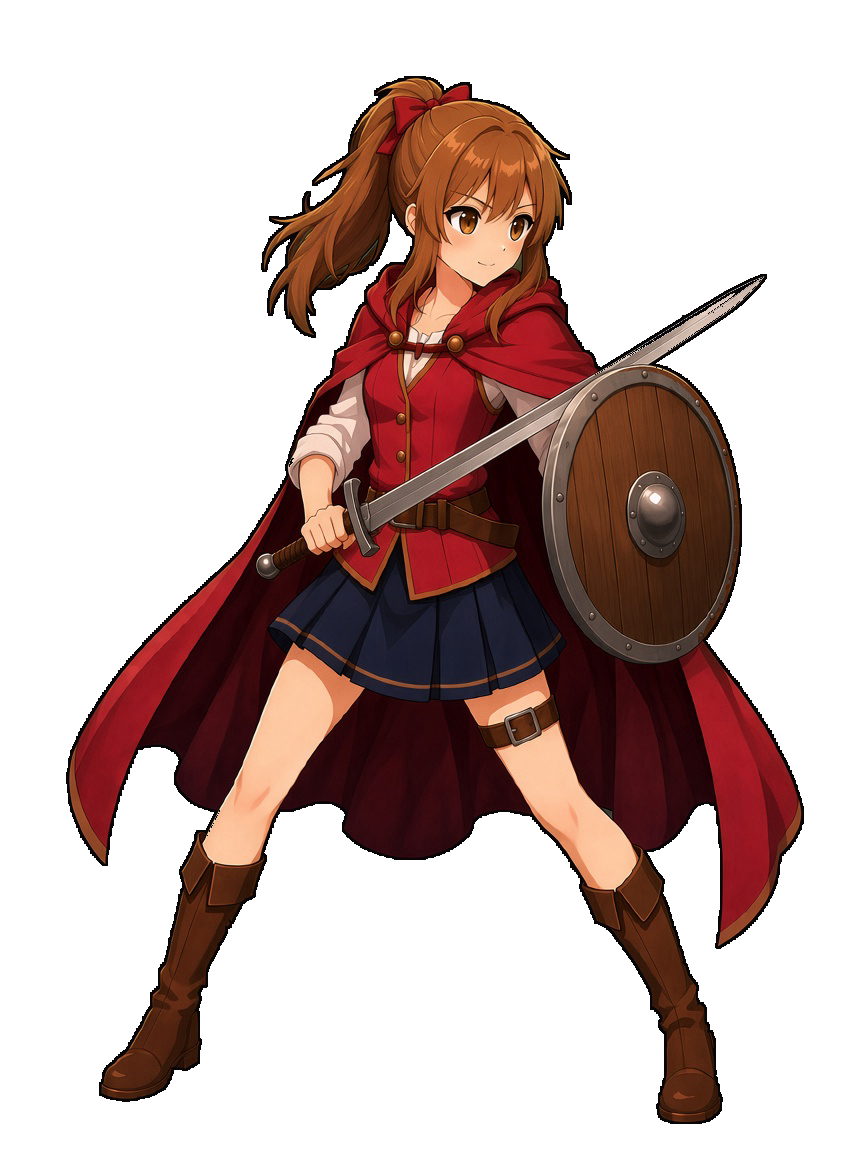
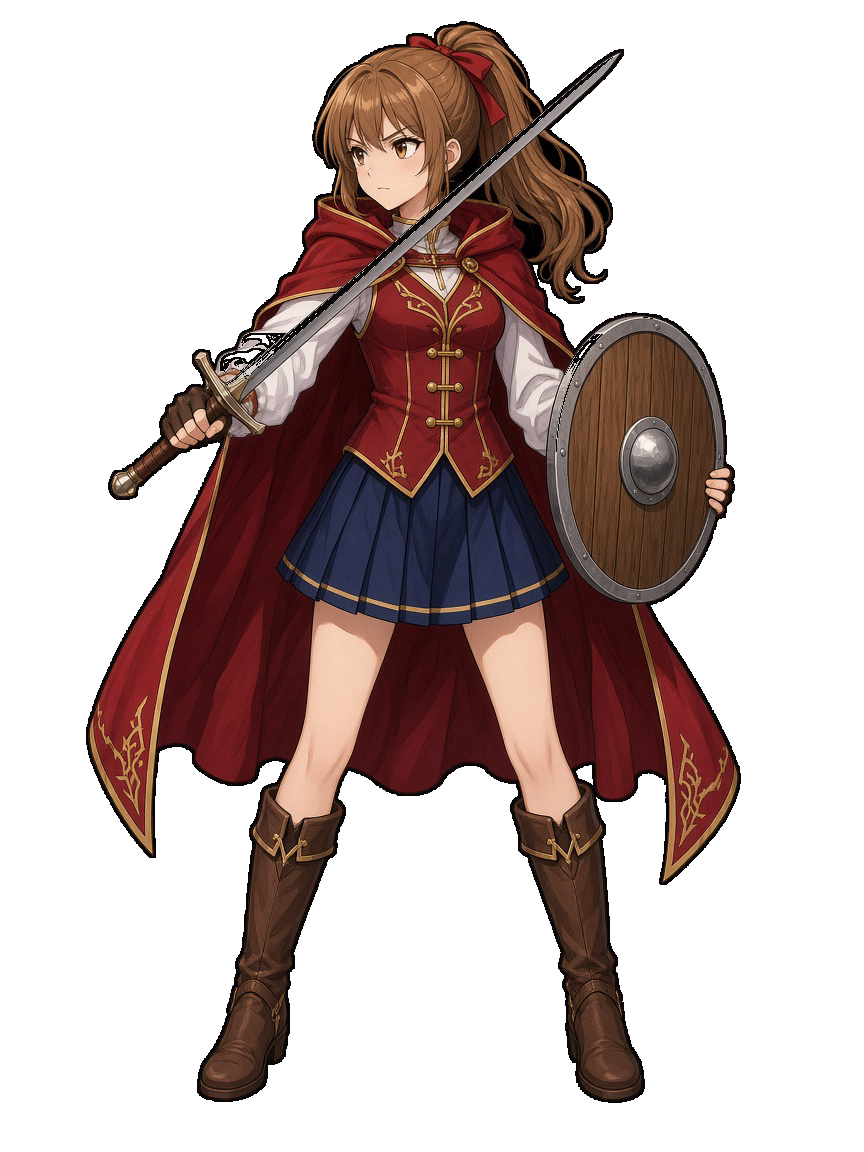
Redraw the warrior, keep mana off the deck, and restore the round end button.

diff --git a/index.html b/index.html
@@ -131,59 +131,38 @@
       display: flex;
       flex-direction: column;
       margin: 0;
-      padding: 10px 8px 8px;
+      padding: 6px;
       border-radius: 16px;
       background: var(--panel-sheen), var(--panel-face);
       box-shadow: var(--panel-frame);
       color: var(--cream);
     }
-    .road-map h2 {
-      margin: 0 0 8px;
-      padding: 7px 8px 8px;
-      border-radius: 12px;
-      border: 1px solid rgba(255, 214, 120, 0.75);
-      background:
-        radial-gradient(120% 90% at 50% 0%, rgba(255, 226, 150, 0.34), transparent 62%),
-        linear-gradient(180deg, rgba(146, 96, 28, 0.72), rgba(48, 28, 10, 0.55));
-      box-shadow: inset 0 1px 0 rgba(255, 244, 210, 0.55), 0 6px 14px rgba(0, 0, 0, 0.28);
-      font-family: "Yu Mincho", "YuMincho", "Hiragino Mincho ProN", "Noto Serif JP", "MS Mincho", serif;
-      font-size: 20px;
-      font-weight: 900;
-      letter-spacing: 0.42em;
-      text-indent: 0.42em;
-      text-align: center;
-      color: #fff3c4;
-      text-shadow: 0 1px 0 #5a3810, 0 0 12px rgba(255, 206, 90, 0.5);
-    }
-    .road-map h2::before { content: "◆ "; letter-spacing: 0; text-indent: 0; font-size: 11px; }
-    .road-map h2::after { content: " ◆"; letter-spacing: 0; font-size: 11px; }
     .road-map ol {
       list-style: none;
       margin: 0;
-      padding: 0 0 0 10px;
+      padding: 0;
       overflow: auto;
       flex: 1 1 auto;
       min-height: 0;
       display: flex;
       flex-direction: column;
-      gap: 4px;
-      border-left: 2px solid rgba(228, 177, 90, 0.45);
+      gap: 6px;
     }
     .road-node {
-      display: grid;
-      grid-template-columns: 32px 42px minmax(0, 1fr);
-      align-items: center;
-      gap: 4px;
-      flex: 0 0 calc((100% - 16px) / 5);
+      position: relative;
+      display: block;
+      flex: 0 0 calc((100% - 24px) / 5);
       min-height: 0;
-      color: rgba(240, 228, 204, 0.45);
+      overflow: hidden;
+      border-radius: 10px;
+      color: rgba(240, 228, 204, 0.72);
       font-size: 13px;
       font-weight: 800;
     }
     .road-node img, .road-node i {
-      width: 42px;
-      height: 42px;
-      border-radius: 8px;
+      width: 100%;
+      height: 100%;
+      border-radius: 10px;
       object-fit: cover;
       background: #1a1410;
     }
@@ -204,8 +183,15 @@
     }
     .road-node.boss { color: #ffb0a4; }
     .road-node.boss img { box-shadow: 0 0 0 2px #c43a32; }
-    .road-floor { letter-spacing: 0.02em; }
-    .road-name { overflow: hidden; white-space: nowrap; text-overflow: ellipsis; }
+    .road-floor, .road-name {
+      position: absolute;
+      z-index: 1;
+      left: 4px;
+      right: 4px;
+      text-shadow: 0 1px 2px #000, 0 0 6px #000;
+    }
+    .road-floor { top: 4px; letter-spacing: 0.02em; }
+    .road-name { bottom: 4px; overflow: hidden; white-space: nowrap; text-overflow: ellipsis; }
     .side-rail .battle-log { flex: 1 1 auto; height: auto; }
     .hud-top {
       display: grid;
@@ -2543,11 +2529,12 @@
       flex: 1 1 auto;
       min-height: 0;
       width: 100%;
-      height: 100%;
+      height: auto;
       display: flex;
       align-items: flex-end;
       justify-content: center;
     }
+    .deck-column .deck-stack { flex: 1 1 auto; height: auto; min-height: 0; }
     .deck-stack .pile { height: 100%; }
     .handbar .pile-card {
       flex: 0 0 auto;
@@ -2557,31 +2544,28 @@
       max-height: none;
       min-height: 0;
     }
-    /* マナは山札の上。立ち上る炎。持ち越しは白い炎 */
-    .deck-stack .pile { position: relative; }
-    .deck-stack .mana-row {
-      position: absolute;
+    /* マナは山札の上の空き。山札の絵にはかぶせない。持ち越しは白い炎 */
+    .deck-column .mana-row {
+      position: static;
       z-index: 4;
-      left: 50%;
-      top: 2px;
-      bottom: calc(var(--pile-card-h, 64%) + 8px);
-      transform: translateX(-50%);
+      transform: none;
       display: flex;
       flex-flow: row nowrap;
       align-items: flex-end;
       justify-content: center;
-      gap: 0;
-      width: max-content;
-      max-width: calc(100% - 8px);
+      gap: 6px;
+      width: 100%;
+      height: 52px;
+      flex: 0 0 52px;
       margin: 0;
-      overflow: hidden;
+      overflow: visible;
       pointer-events: none;
     }
     .mana-orb {
       position: relative;
-      width: 54px;
-      height: 100%;
-      max-height: 72px;
+      width: 36px;
+      height: 52px;
+      max-height: 52px;
       flex: 0 0 auto;
       margin: 0;
       border: 0;
@@ -2630,11 +2614,13 @@
     .pile { width: auto; height: 100%; flex: 0 0 auto; min-width: 0; max-width: none; display: flex; flex-direction: column; align-items: center; justify-content: flex-end; gap: 4px; }
     .handbar .end {
       align-self: center;
-      height: 52px;
-      max-height: 52px;
-      min-width: 0;
-      min-height: 0;
-      margin: 0 8px 0 0;
+      width: 132px;
+      height: 132px;
+      min-width: 132px;
+      min-height: 132px;
+      max-width: 132px;
+      max-height: 132px;
+      margin: 0 8px;
     }
     .pile-card {
       position: relative;
@@ -2734,14 +2720,7 @@
       color: #fff3c4;
       text-shadow: 0 1px 0 #5a3810, 0 0 12px rgba(255, 206, 90, 0.45);
     }
-    .battle-log h2::after {
-      content: "◆";
-      display: block;
-      margin-top: 6px;
-      font-size: 11px;
-      letter-spacing: 0;
-      color: rgba(212, 168, 74, 0.65);
-    }
+    .battle-log h2::after { content: none; }
     .battle-log p {
       margin: 0 0 16px;
       font-size: 22px;
@@ -2887,14 +2866,7 @@
       background-repeat: no-repeat;
       background-position: bottom center;
     }
-    .gear-rail h2::after {
-      content: "◆";
-      display: block;
-      margin-top: 5px;
-      font-size: 10px;
-      letter-spacing: 0;
-      color: rgba(212, 168, 74, 0.65);
-    }
+    .gear-rail h2::after { content: none; }
     .gear-rail .party-stack {
       margin-top: auto;
       display: flex;
@@ -2977,13 +2949,14 @@
     }
     .plate-gear .gear-board {
       display: flex;
-      flex-direction: column;
+      flex-direction: row;
+      flex-wrap: wrap;
       align-items: flex-start;
       justify-content: flex-start;
       gap: 6px;
-      width: 72px;
-      min-width: 72px;
-      max-width: 72px;
+      width: 100%;
+      min-width: 0;
+      max-width: 100%;
       height: auto;
       min-height: 0;
       flex: none;
@@ -2991,10 +2964,10 @@
       container-type: normal;
     }
     .plate-gear .gear-pair { display: contents; }
-    .plate-gear .gear-slot { width: 72px; flex: 0 0 72px; max-width: 72px; }
+    .plate-gear .gear-slot { width: 64px; flex: 0 0 64px; max-width: 64px; }
     .plate-gear .gear-frame {
-      width: 72px;
-      max-width: 72px;
+      width: 64px;
+      max-width: 64px;
       height: auto;
       aspect-ratio: 1;
     }
@@ -3695,25 +3668,25 @@
     .card .card-fit.r3 .rarity { color: #9a6a12; }
     .card .card-fit.rboss .rarity { color: #9a1f14; }
     .end {
-      width: 148px;
-      height: 52px;
-      min-width: 148px;
-      min-height: 0;
-      max-width: none;
-      max-height: 52px;
-      aspect-ratio: auto;
+      width: 132px;
+      height: 132px;
+      min-width: 132px;
+      min-height: 132px;
+      max-width: 132px;
+      max-height: 132px;
+      aspect-ratio: 1;
       flex: none;
       align-self: center;
       margin: 0 12px;
-      border-radius: 999px;
-      border: 2px solid #e4c27a;
-      background: #1c120c;
-      color: #ffe7a4;
+      border-radius: 50%;
+      border: 4px solid var(--gold);
+      background: rgba(18, 14, 12, 0.72);
+      color: var(--gold);
       font-family: "Yu Mincho", "YuMincho", "Hiragino Mincho ProN", "Noto Serif JP", serif;
-      font-size: 16px;
-      font-weight: 900;
-      letter-spacing: 0.22em;
-      line-height: 1;
+      font-size: 18px;
+      font-weight: 800;
+      letter-spacing: 0.06em;
+      line-height: 1.15;
       cursor: pointer;
       box-shadow: inset 0 0 0 1px #6b4518, 0 8px 16px rgba(0, 0, 0, 0.4);
     }
@@ -5744,7 +5717,7 @@
       .sprite .eye { top: 30px; width: 13px; height: 13px; }
       .sprite .eye.l { left: 28px; }
       .sprite .eye.r { right: 28px; }
-      .end { width: 132px; height: 44px; min-width: 132px; min-height: 44px; max-height: 44px; font-size: 14px; border-radius: 999px; }
+      .end { width: 108px; height: 108px; min-width: 108px; min-height: 108px; max-width: 108px; max-height: 108px; font-size: 15px; border-radius: 50%; }
       .mana-orb { width: 36px; height: 100%; max-height: 48px; margin: 0; }
       .vitals .meter.hp, .vitals .hp-line, .vitals .shield-row { height: 36px; }
       .vitals .hp-line b, .vitals .shield-line b { font-size: 22px; }
@@ -5816,7 +5789,8 @@
     html.phone .status-stars { font-size: 18px; }
     html.phone .hud-actions { flex-wrap: wrap; justify-content: flex-end; }
     html.phone .hero-stack { top: 4px; width: min(168px, 46%); }
-    html.phone .plate-gear .gear-frame { width: 100%; height: auto; }
+    html.phone .plate-gear .gear-frame { width: 48px; max-width: 48px; height: auto; }
+    html.phone .plate-gear .gear-slot { width: 48px; flex-basis: 48px; max-width: 48px; }
     html.phone .battle-bands { border-radius: 12px; border-width: 5px; }
     html.phone .foe-plate[data-rank="雑魚"],
     html.phone .foe-plate[data-rank="普通"],
@@ -5828,17 +5802,17 @@
     html.phone .handbar { padding: 4px 4px 6px; gap: 4px; }
     html.phone .handbar .end,
     html.phone .end {
-      width: 108px;
-      height: 40px;
-      min-width: 108px;
-      min-height: 40px;
-      max-width: 108px;
-      max-height: 40px;
+      width: 72px;
+      height: 72px;
+      min-width: 72px;
+      min-height: 72px;
+      max-width: 72px;
+      max-height: 72px;
       margin: 0 2px 6px 0;
-      font-size: 12px;
-      letter-spacing: 0.08em;
-      border-radius: 999px;
-      border-width: 2px;
+      font-size: 11px;
+      letter-spacing: 0.04em;
+      border-radius: 50%;
+      border-width: 3px;
     }
     html.phone .mana-orb { width: 30px; height: 100%; max-height: 42px; margin: 0; }
     /* iPhone横画面。高さがないので、上は1行、下は手札 */
@@ -5875,7 +5849,8 @@
       gap: 4px;
     }
     html.phone.land .hero-stack { width: min(220px, 34%); }
-    html.phone.land .plate-gear .gear-frame { width: 100%; height: auto; }
+    html.phone.land .plate-gear .gear-frame { width: 44px; max-width: 44px; height: auto; }
+    html.phone.land .plate-gear .gear-slot { width: 44px; flex-basis: 44px; max-width: 44px; }
     html.phone.land .foe-plate[data-rank="雑魚"],
     html.phone.land .foe-plate[data-rank="普通"],
     html.phone.land .foe-plate[data-rank="強敵"] { width: min(220px, 34%); }
@@ -5883,14 +5858,14 @@
     html.phone.land .battle-plate .shield-badge { width: 36px; height: 48px; }
     html.phone.land .handbar .end,
     html.phone.land .end {
-      width: 96px;
-      height: 36px;
-      min-width: 96px;
-      min-height: 36px;
-      max-width: 96px;
-      max-height: 36px;
-      font-size: 11px;
-      border-radius: 999px;
+      width: 64px;
+      height: 64px;
+      min-width: 64px;
+      min-height: 64px;
+      max-width: 64px;
+      max-height: 64px;
+      font-size: 10px;
+      border-radius: 50%;
     }
     html.phone.land .battle-log {
       left: 64px;
@@ -6172,7 +6147,7 @@
         stand: "girl-front.png?v=11",
         chibi: "job-girl.png?v=11",
         action: "girl-action.jpg?v=5",
-        battle: "girl-battle.png?v=29",
+        battle: "girl-battle.png?v=30",
         battleRatio: "3 / 4",
         defeat: "girl-defeat.png?v=10",
         victory: "girl-victory.png?v=13",
@@ -6575,7 +6550,7 @@
         return `<li class="road-node ${state}${face.boss ? " boss" : ""}"><span class="road-floor">${floor}</span>${icon}<span class="road-name">${esc(face.label || "")}</span></li>`;
       }).join("");
       const pad = battleIndex === 0 ? `<li class="road-node pad" aria-hidden="true"></li>` : "";
-      return `<section class="road-map" aria-label="マップ"><h2>マップ</h2><ol>${rows}${pad}</ol></section>`;
+      return `<section class="road-map" aria-label="マップ"><ol>${rows}${pad}</ol></section>`;
     }
 
     function placeRoad() {
@@ -9810,7 +9785,7 @@
             <h3>女の戦士</h3>
             <div class="ref-grid pose-grid">
               ${sheetFig("girl-front.png?v=11", "キャラデザ", "cut-ref")}
-              ${sheetFig("girl-battle.png?v=29", "戦闘（縁取り）", "cut-ref")}
+              ${sheetFig("girl-battle.png?v=30", "戦闘（縁取り）", "cut-ref")}
               ${sheetFig("girl-battle-prev.png?v=1", "戦闘（前）", "cut-ref")}
               ${sheetFig("girl-battle-next.png?v=1", "戦闘（切り抜き直し）", "cut-ref")}
               ${sheetFig("girl-battle-next2.png?v=1", "戦闘（切り抜き直し2）", "cut-ref")}
@@ -11534,8 +11509,9 @@
           <div class="handbar">
               <div class="pile-pair">
                 <div class="deck-column">
+                  ${pips()}
                   <div class="deck-stack">
-                    ${pileMarkup("deck", deck.length, pips())}
+                    ${pileMarkup("deck", deck.length)}
                   </div>
                 </div>
                 ${pileMarkup("discard", discard.length)}
